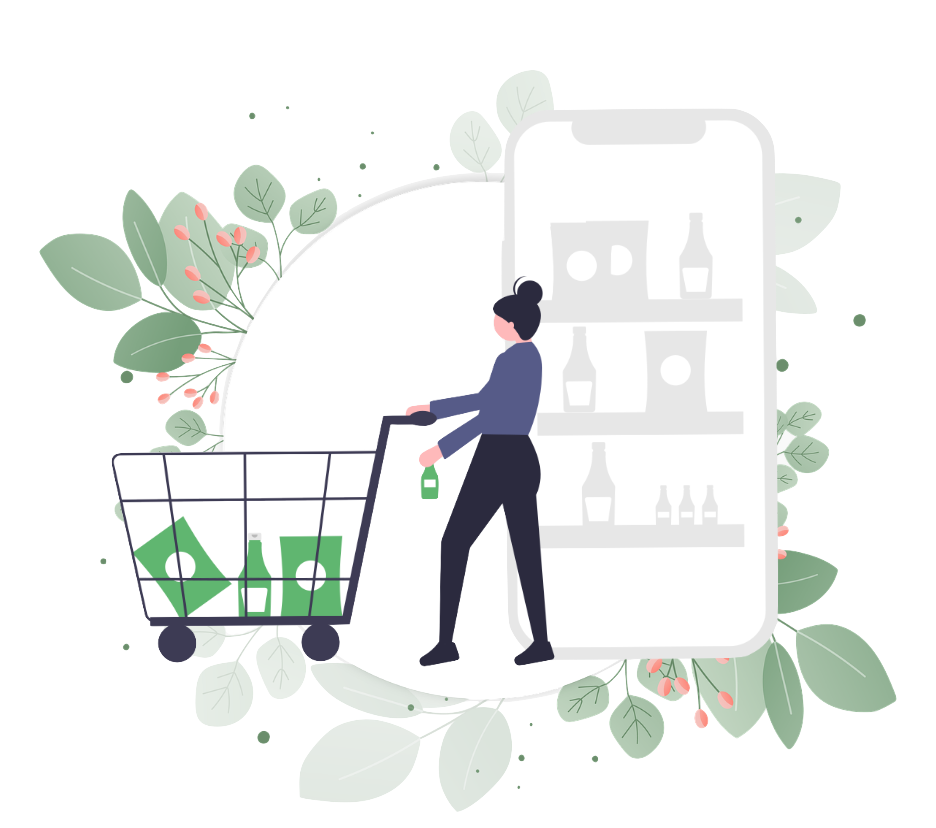
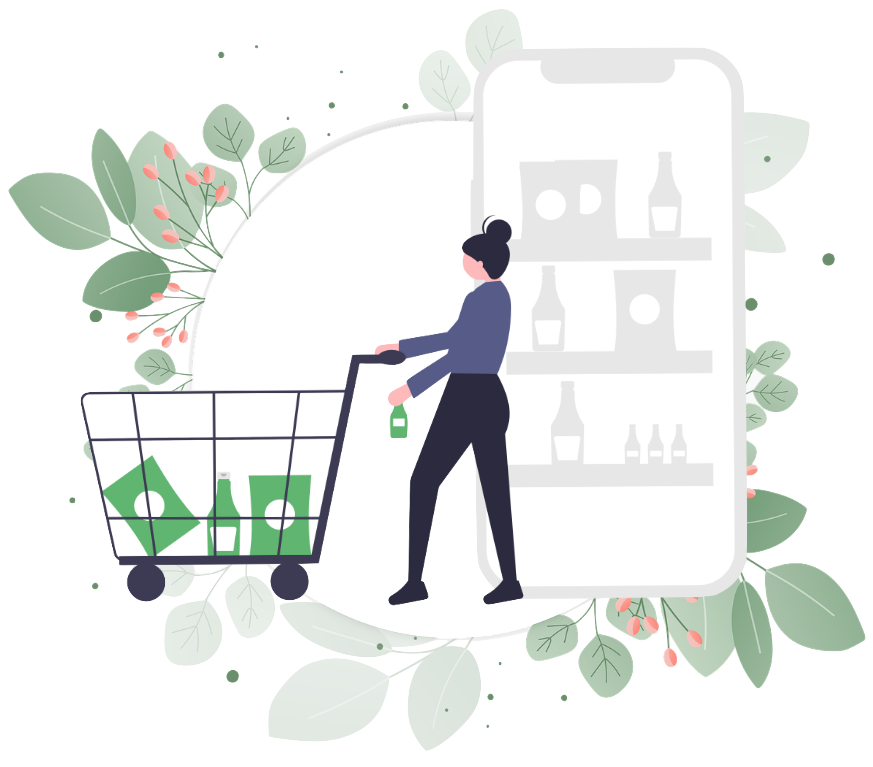
top image disappears and We Care For Our Community changes size according to screen size

diff --git a/index.html b/index.html
@@ -36,48 +36,48 @@
 <body>
     
     <!-- Navigation bar -->
-    <nav class="navbar navbar-expand-md navbar-light fixed-top px-5">
-        <div class = "container-fluid p-2">
-            <a class = "navbar-brand" href = "index.html" title="Home page">
-                <img src = "assets/icon.png" height = 40px>
-                <i>EZ </i>Fresh
-            </a>
-            <!-- toggler when the screen size decrease -->
-            <button 
-                class="navbar-toggler" 
-                type="button" 
-                data-bs-toggle="collapse" 
-                data-bs-target="#navbarCollapse" 
-                aria-controls="navbarCollapse" 
-                aria-expanded="false"
-                aria-label="Toggle navigation"> 
-                    <span class="navbar-toggler-icon"></span>
-            </button>
-            <div class="collapse navbar-collapse" id="navbarCollapse">
-                <div class="navbar-nav ms-auto mb-2 mb-md-0">
-                    <span class = "active-nav-link">
-                        <a class="nav-link active" aria-current = "page" href = "index.html" title = "Home page">Home</a>
-                    </span>
-                    <a class= "nav-link" href = "about.html" title = "About page">About</a>
-                    <a class= "nav-link" href = "product.html" title = "Product page">Product</a>
-                    <a class= "nav-link" href = "faq.html" title = "FAQ">FAQ</a>
-                    <a class= "nav-link" href = "contact.html" title = "Contact page">Contact Us</a>
-                </div>
+    <nav class="navbar navbar-expand-md navbar-light fixed-top px-5 py-3 container-fluid">
+        <a class = "navbar-brand" href = "index.html" title="Home page">
+            <img src = "assets/icon.png" height = 40px>
+            <i>EZ </i>Fresh
+        </a>
+        <!-- toggler when the screen size decrease -->
+        <button 
+            class="navbar-toggler" 
+            type="button" 
+            data-bs-toggle="collapse" 
+            data-bs-target="#navbarCollapse" 
+            aria-controls="navbarCollapse" 
+            aria-expanded="false"
+            aria-label="Toggle navigation"> 
+                <span class="navbar-toggler-icon"></span>
+        </button>
+        <div class="collapse navbar-collapse" id = "navbarCollapse">
+            <div class="navbar-nav ms-auto mb-2 mb-md-0">
+                <span class = "active-nav-link">
+                    <a class="nav-link active" aria-current = "page" href = "index.html" title = "Home page">Home</a>
+                </span>
+                <a class= "nav-link" href = "about.html" title = "About page">About</a>
+                <a class= "nav-link" href = "product.html" title = "Product page">Product</a>
+                <a class= "nav-link" href = "faq.html" title = "FAQ">FAQ</a>
+                <a class= "nav-link" href = "contact.html" title = "Contact page">Contact Us</a>
             </div>
         </div>
     </nav>
 
     <!-- Beginning -->
     <section class="startsec row">
-        <div class = "col-lg-7 order-2 pt-5">
-            <p class = "startsectag">
-                    <span style="font-size:0.9em;background-color:#eff0f2;">We Care For&nbsp;</span>
+        <div class = "col-lg-6 order-2">
+            <p class = "startsectag float-none d-flex" style = "flex-direction: column;">
+                <span class = "startText">
+                    <span class = "pb-2" style="font-size:0.9em;background-color:#eff0f2;">We Care For&nbsp;</span><br>
                     <span class="highlight" style="font-size:1.2em;color:#002502;background-color:#eff0f2;"> 
                         OUR COMMUNITY
-                    </span> 
+                    </span><br>
                     <span style="font-size:1em;background-color:#eff0f2;">&nbsp;Es Hora De Comer</span>
+                </span>
             </p>
-            <span class = "px-4 py-2" style = "background-color:#f7f4f4;color:#004403;font-size: xx-large;font-weight:bolder;">
+            <span class = "py-2" style = "background-color:#f7f4f4;color:#004403;font-size: xx-large;font-weight:bolder;">
                 Inspired to cook something new?
             </span>
             <div class = "searchBar row d-flex pt-3 pe-5" style = "flex-wrap: nowrap;">
@@ -95,10 +95,8 @@
                 </a>
             </span>
         </div>  
-        <div class="startsecimg col-lg-5 order-1 py-4 ps-5">
-            <img src = "assets/leavelyshopping.png" height="550px" alt = "shopping online">
-        </div>
-
+        <div class="startsecimg col-lg-6 order-1 py-5 ps-5 d-none d-lg-block">
+            <img src = "assets/leavelyshopping.png" class = "img-fluid" alt = "shopping online">
         </div>
     </section>
     <!-- Welcome phrase -->
@@ -154,7 +152,7 @@
                     </p>
                 </div>
                 <div class = "sec2img col-md-6">
-                    <img src = "assets/undraw_add_to_cart_vkjp.png" height="350px">
+                    <img src = "assets/undraw_add_to_cart_vkjp.png" class = "img-fluid">
                 </div>
         </section>
 
@@ -170,7 +168,7 @@
                     </p>
                 </div>
                 <div class = "col-md-7 sec3img order-1">
-                    <img src = "assets/undraw_discount_d4bd.png" height="350px">
+                    <img src = "assets/undraw_discount_d4bd.png" class = "img-fluid">
                 </div>
         </section>
 
@@ -184,7 +182,7 @@
             </p>
                 <div class = "col-lg-3">
                     <div class="card">
-                        <img src="assets/burger.png" class="card-img-top" alt="Burger">
+                        <img src="assets/burger.png" class="card-img-top img-fluid" alt="Burger">
                         <div class="card-body">
                             <h5 class="card-title">Gordon's 10 Millionth Youtube Subscriber Burger</h5>
                             <p class="card-text">"Gordon's just hit 10 Million Subscribers on YouTube and to celebrate, he's making the perfect burger for the grill...with a few tricks!"</p>
@@ -195,7 +193,7 @@
                 </div>
                 <div class="col-lg-3">
                     <div class="card">
-                        <img src="assets/Curry Potatoes.png" class="card-img-top" alt="Curry Potatoes">
+                        <img src="assets/Curry Potatoes.png" class="card-img-top img-fluid" alt="Curry Potatoes">
                         <div class="card-body">
                             <h5 class="card-title">Little Chef Naia’s Braised Curry Potatoes</h5>
                             <p class="card-text">"Delicious braised curry potatoes from 2015 Little Chef winner Naia! Make these at home with your own Little Chefs—have some fun in the kitchen!"</p>
@@ -206,7 +204,7 @@
                 </div>
                 <div class="col-lg-3">
                     <div class="card">
-                        <img src="assets/brownie.png" class="card-img-top" alt="Brownie">
+                        <img src="assets/brownie.png" class="card-img-top img-fluid" alt="Brownie">
                         <div class="card-body">
                             <h5 class="card-title">Instant Pot Brownie</h5>
                             <p class="card-text">"I had so much fun trying to bake these dessert recipes in an Instant Pot for the first time ever! I can't believe how well this worked after a little trial and error."</p>
@@ -217,7 +215,7 @@
                 </div>
                 <div class="col-lg-3">
                     <div class="card">
-                        <img src="https://imagesvc.meredithcorp.io/v3/mm/image?url=https%3A%2F%2Fimages.media-allrecipes.com%2Fuserphotos%2F5265636.jpg" class="card-img-top" alt="Vietnamese Fresh Spring Rolls">
+                        <img src="https://imagesvc.meredithcorp.io/v3/mm/image?url=https%3A%2F%2Fimages.media-allrecipes.com%2Fuserphotos%2F5265636.jpg" class="card-img-top img-fluid" alt="Vietnamese Fresh Spring Rolls">
                         <div class="card-body">
                             <h5 class="card-title">Vietnamese Fresh Spring Rolls</h5>
                             <p class="card-text">"These spring rolls are a refreshing change from the usual fried variety, and have become a family favorite. They are great as a cool summertime appetizer, and are delicious dipped in one or both of the sauces."</p>

diff --git a/style.css b/style.css
@@ -61,23 +61,46 @@ body{
 .startsectag{
     display: flex;
     flex-wrap:wrap;
-    font-size:x-large;
+    font-size:small;
     align-content: center;
-    padding-right: 33%;
-    padding-top: 7%;
-    padding-bottom: 5%;
-    padding-left: 27%;
+    padding-right: 33%; /*33*/
+    padding-top: 12%;
+    padding-bottom: 10%;
+    padding-left: 23%; /*27*/
     background-image: url(assets/framed-price-tag.png);
     background-repeat: no-repeat;
     background-position:center;
     background-size:contain;
 }
-.startsectag span{
-    padding: 8px 0;
-}
 .startsecimg{
     display:flex;
     justify-content: center;
+}
+/* Change font-size for "We Care for Our Community" */
+@media (min-width: 375px){
+    .startText{
+        font-size:medium;
+    }
+}
+@media (min-width: 576px){
+    .startText{
+        font-size:x-large;
+    }
+}
+@media (min-width: 768px){
+    .startText{
+        font-size:xx-large;
+    }
+}
+@media (min-width: 992px){
+    .startText{
+        font-size:large;
+    }
+}
+@media (min-width: 1200px){
+    .startText{
+        font-size:x-large;
+    }
 }
 
 /* Change color for different action handlers */
@@ -98,6 +121,11 @@ body{
 }
 .btn:focus{
     box-shadow: 0 0 0 0.25rem rgba(95,216,64,0.25) !important; 
+}
+.navbar-toggler:focus {
+    text-decoration: none;
+    outline: 0;
+    box-shadow: 0 0 0 0.25rem rgba(95,216,64,0.25) !important;
 }
 
 /* The welcome phrase */
